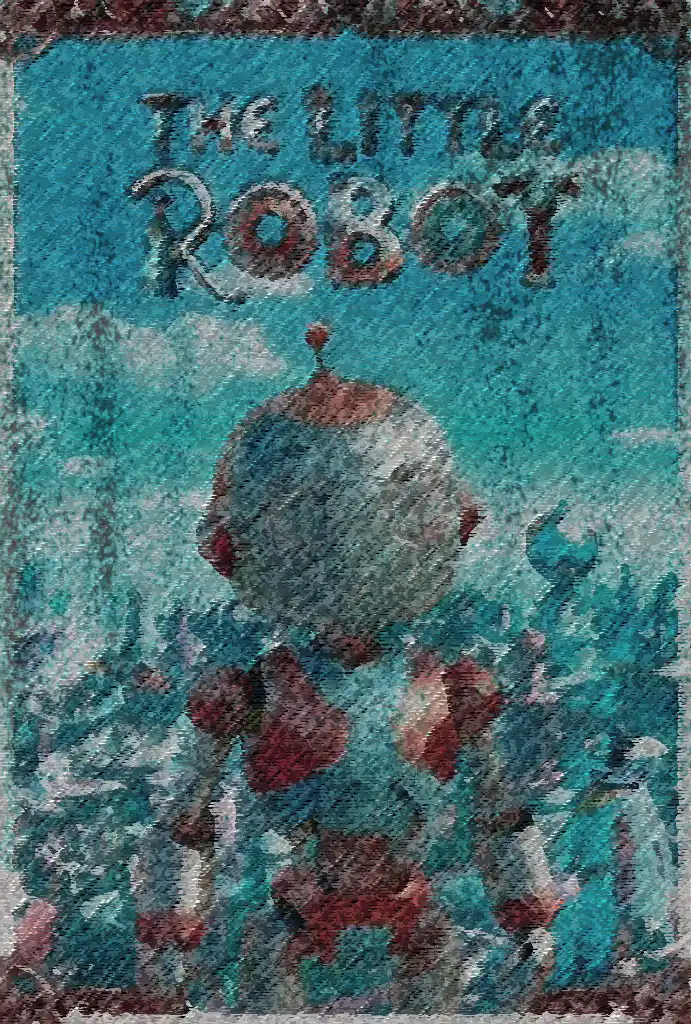
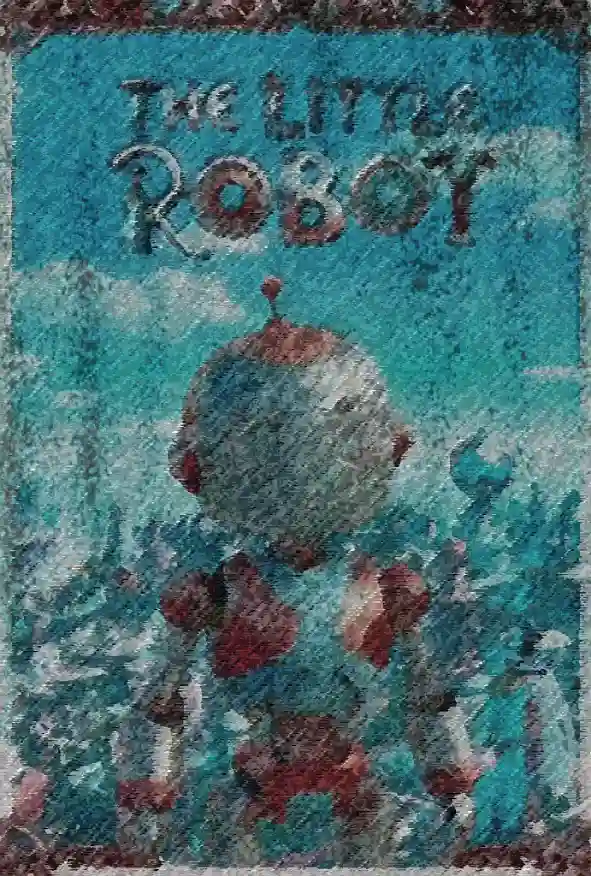
preload and optimize

diff --git a/src/entities/store/textures.ts b/src/entities/store/textures.ts
@@ -6,20 +6,20 @@ import {
   TextureLoader,
   type Texture,
 } from 'three'
-import ceilingColor from '../../assets/ceiling-color.jpg'
-import ceilingEmission from '../../assets/ceiling-emission.jpg'
-import ceilingNormal from '../../assets/ceiling-normal.jpg'
-import ceilingRoughness from '../../assets/ceiling-roughness.jpg'
-import wallpaperColor from '../../assets/wallpaper-color.jpg'
-import wallpaperNormal from '../../assets/wallpaper-normal.jpg'
-import wallpaperRoughness from '../../assets/wallpaper-roughness.jpg'
-import nightSkyUrl from '../../assets/night-sky.jpg'
+import ceilingColor from '../../assets/ceiling-color.webp'
+import ceilingEmission from '../../assets/ceiling-emission.webp'
+import ceilingNormal from '../../assets/ceiling-normal.webp'
+import ceilingRoughness from '../../assets/ceiling-roughness.webp'
+import wallpaperColor from '../../assets/wallpaper-color.webp'
+import wallpaperNormal from '../../assets/wallpaper-normal.webp'
+import wallpaperRoughness from '../../assets/wallpaper-roughness.webp'
+import nightSkyUrl from '../../assets/night-sky.webp'
 import glassSmudge from '../../assets/glass-smudge.webp'
-import scuffsColor from '../../assets/scuffs-table-color.jpg'
-import scuffsNormal from '../../assets/scuffs-normal.jpg'
-import woodColor from '../../assets/wood-color.jpg'
-import woodNormal from '../../assets/wood-normal.jpg'
-import woodRoughness from '../../assets/wood-roughness.jpg'
+import scuffsColor from '../../assets/scuffs-table-color.webp'
+import scuffsNormal from '../../assets/scuffs-normal.webp'
+import woodColor from '../../assets/wood-color.webp'
+import woodNormal from '../../assets/wood-normal.webp'
+import woodRoughness from '../../assets/wood-roughness.webp'
 
 export interface TextureSet {
   map?: Texture

diff --git a/src/entities/preloadAssets.ts b/src/entities/preloadAssets.ts
@@ -1,0 +1,27 @@
+const assetUrls = Object.values(
+  import.meta.glob('../assets/*', { eager: true, query: '?url', import: 'default' }) as Record<
+    string,
+    string
+  >,
+)
+
+const imageExtensions = /\.(png|jpe?g|webp|gif|avif)$/i
+
+function preloadOne(url: string) {
+  return new Promise<void>((resolve) => {
+    if (imageExtensions.test(url)) {
+      const img = new Image()
+      img.onload = () => resolve()
+      img.onerror = () => resolve()
+      img.src = url
+    } else {
+      fetch(url)
+        .then(() => resolve())
+        .catch(() => resolve())
+    }
+  })
+}
+
+export function preloadAllAssets() {
+  return Promise.all(assetUrls.map(preloadOne))
+}

diff --git a/src/entities/store/carpet.tsx b/src/entities/store/carpet.tsx
@@ -1,8 +1,8 @@
 import { useMemo } from 'react'
 import { RepeatWrapping, SRGBColorSpace, TextureLoader, Vector2 } from 'three'
-import colorUrl from '../../assets/carpet-color.jpg'
-import normalUrl from '../../assets/carpet-normal.jpg'
-import roughnessUrl from '../../assets/carpet-roughness.jpg'
+import colorUrl from '../../assets/carpet-color.webp'
+import normalUrl from '../../assets/carpet-normal.webp'
+import roughnessUrl from '../../assets/carpet-roughness.webp'
 
 // Metres of floor covered by one tile of the carpet texture
 const TILE = 1.5

diff --git a/src/index.tsx b/src/index.tsx
@@ -2,9 +2,12 @@ import '@fontsource/permanent-marker'
 import { StrictMode } from "react";
 import { createRoot } from "react-dom/client";
 import { App } from "./app";
+import { preloadAllAssets } from "./entities/preloadAssets";
 import { RootProviders } from "./providers";
 
-document.getElementById('loading')?.remove()
+preloadAllAssets().finally(() => {
+  document.getElementById('loading')?.remove()
+})
 
 createRoot(document.getElementById("root")!).render(
   <StrictMode>

diff --git a/src/entities/store/label.tsx b/src/entities/store/label.tsx
@@ -1,6 +1,6 @@
 import { useEffect, useMemo, useState } from 'react'
 import { CanvasTexture, SRGBColorSpace } from 'three'
-import scuffsUrl from '../../assets/scuffs-color.jpg'
+import scuffsUrl from '../../assets/scuffs-color.webp'
 
 // Wear multiplied over printed signs, loaded once for all of them
 const scuffs = new Image()

diff --git a/src/entities/store/standee.tsx b/src/entities/store/standee.tsx
@@ -1,6 +1,6 @@
 import { useMemo } from 'react'
 import { DoubleSide, Shape, SRGBColorSpace, TextureLoader } from 'three'
-import maskUrl from '../../assets/standee-mask.png'
+import maskUrl from '../../assets/standee-mask.webp'
 import artUrl from '../../assets/standee.webp'
 
 const HEIGHT = 1.75
